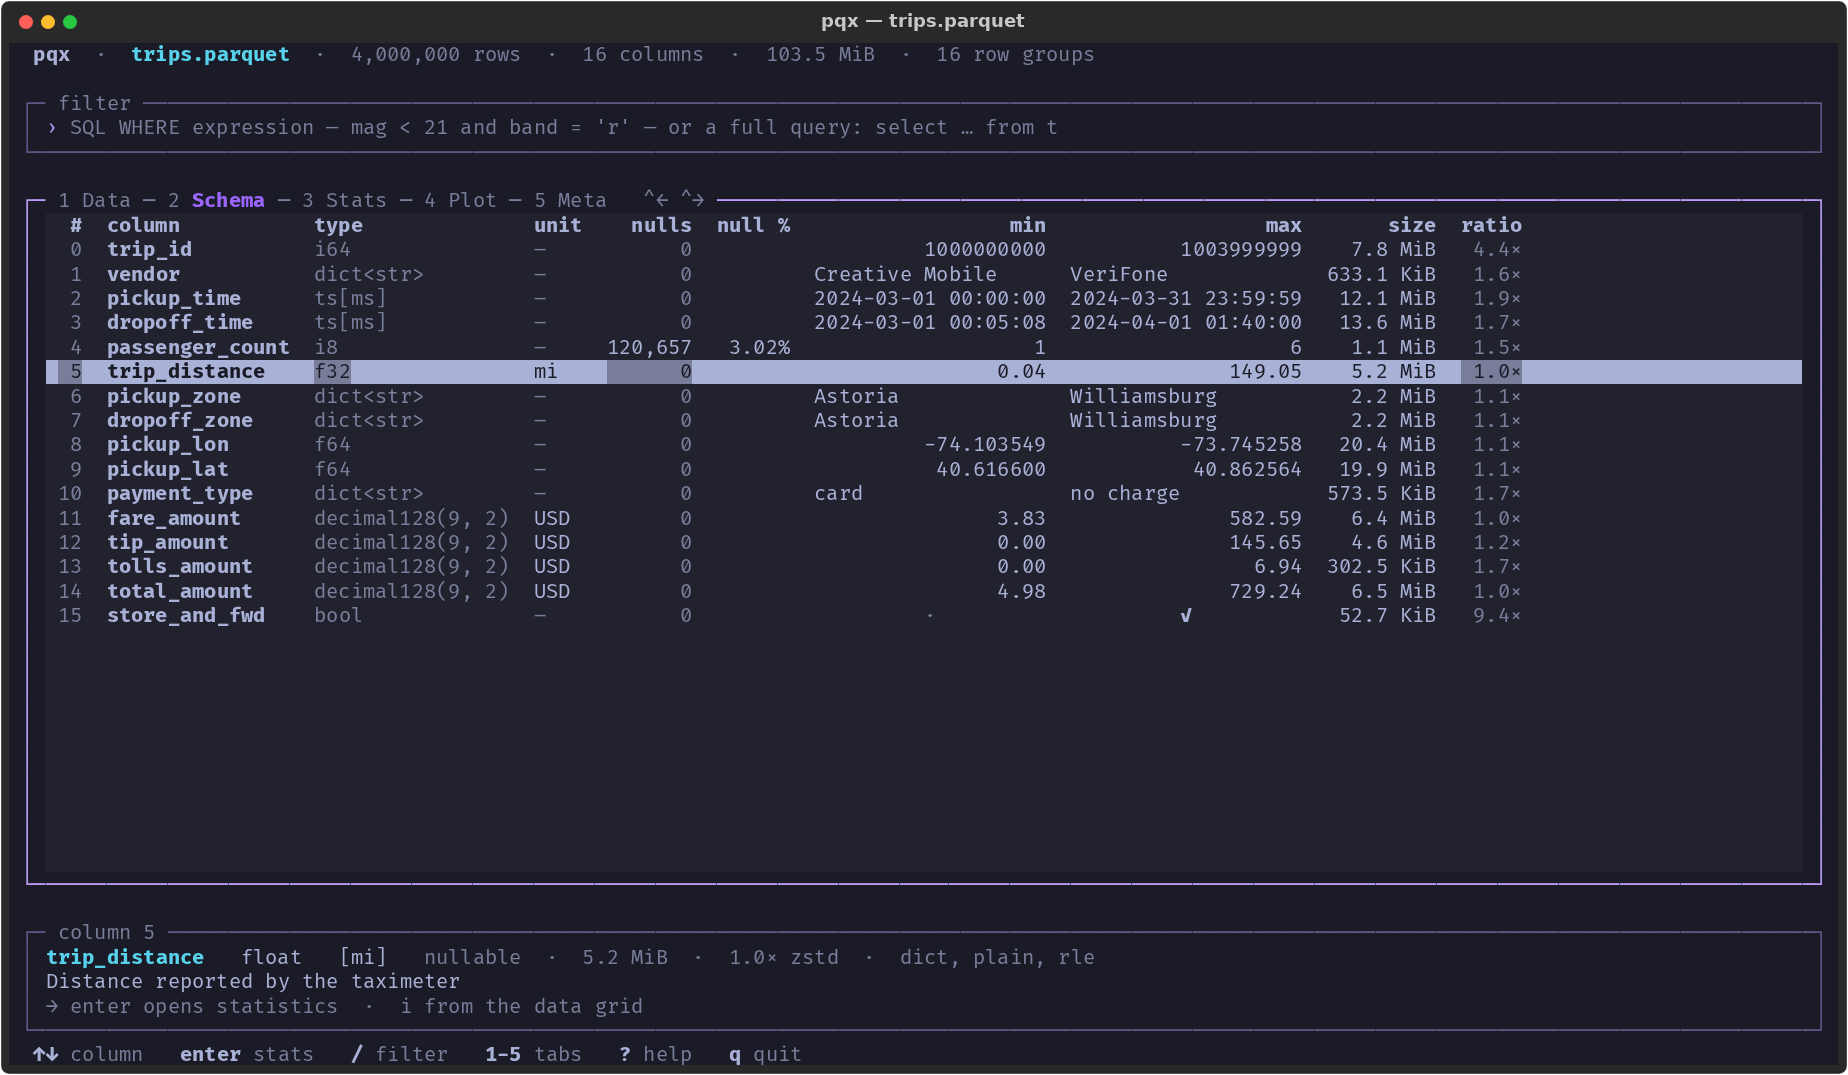
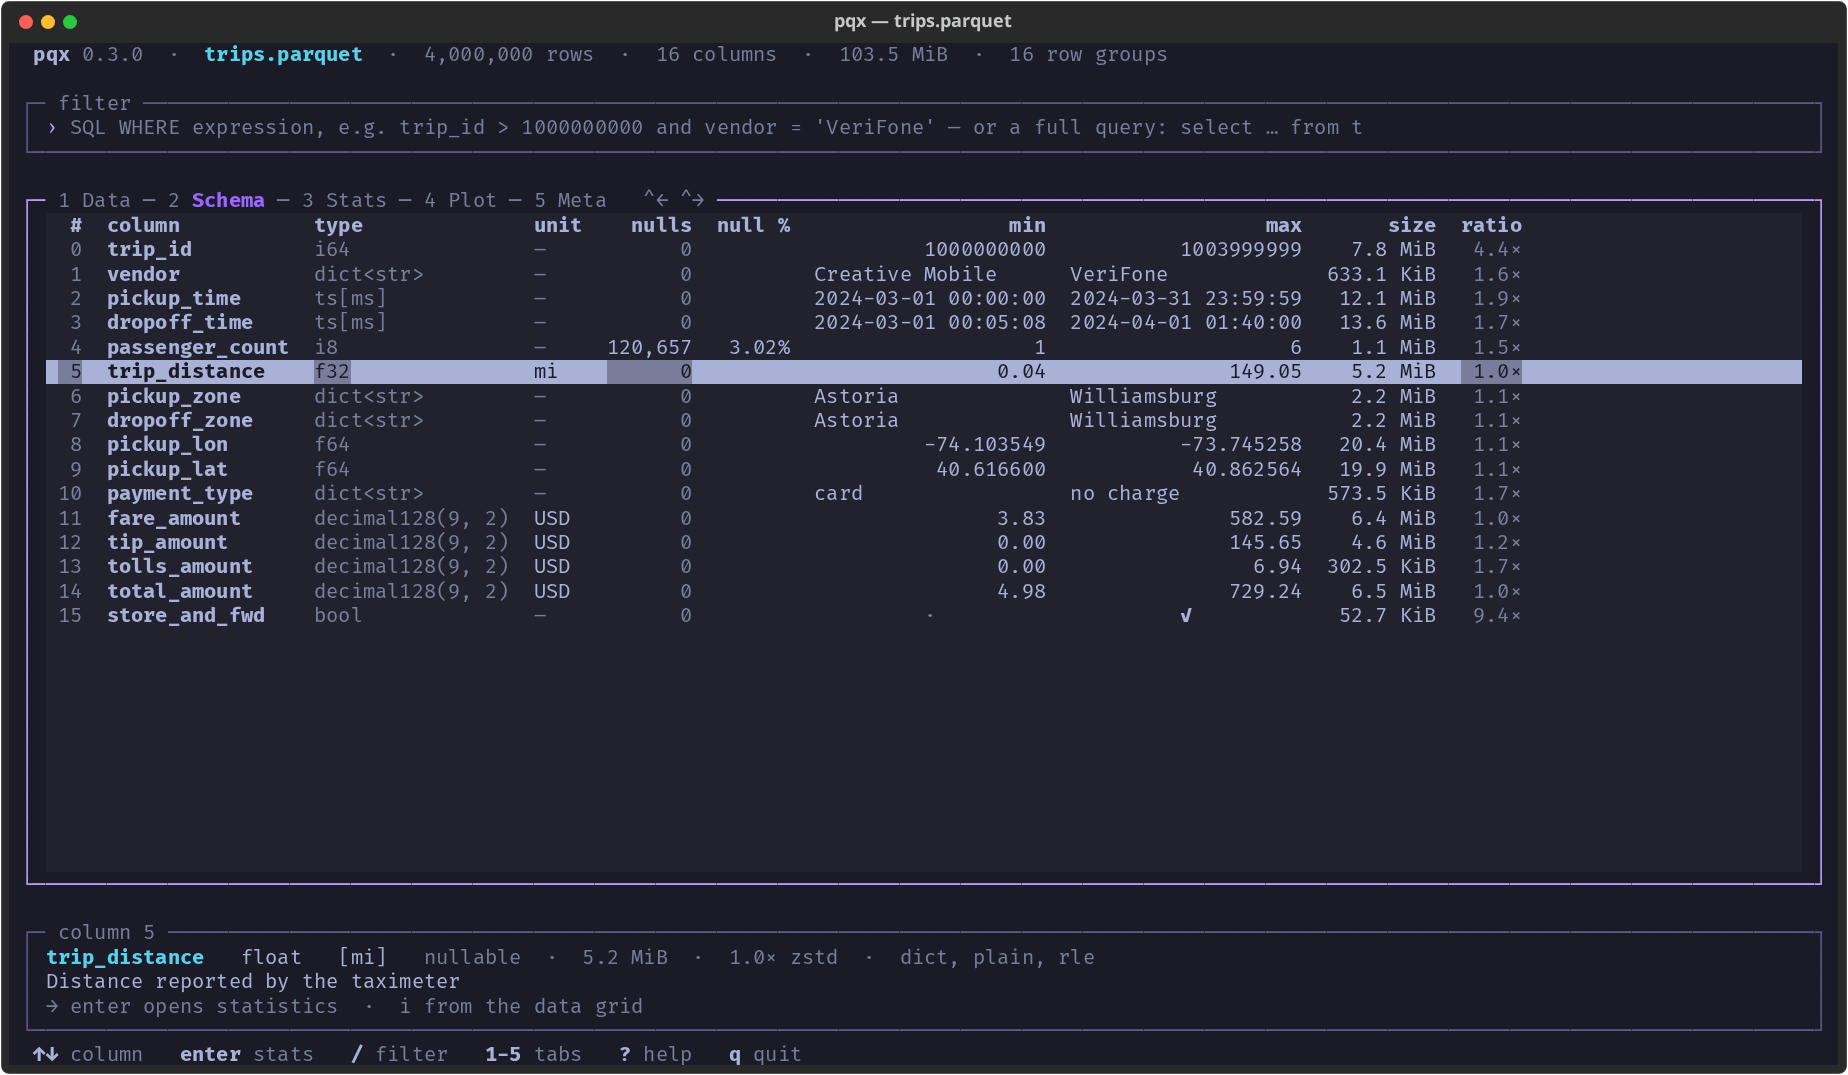
Screenshots from the Go binary
go/bench/screenshots/make_screenshots.py drives pqx in the pty driver at
150x42 with --theme tokyo-night and a truecolor terminal, turns the emulated
screen into Rich text and exports it with Rich's SVG export (as Textual's
screenshots are), then renders PNGs with headless Chromium. The seven PNGs
replace the Python ones; the Python screenshot script goes.

Claude-Session: https://claude.ai/code/session_015kF6kCxgy5Z3UGWUNb1E1y

diff --git a/go/bench/screenshots/make_screenshots.py b/go/bench/screenshots/make_screenshots.py
@@ -1,0 +1,232 @@
+# /// script
+# requires-python = ">=3.10"
+# dependencies = ["numpy", "pyarrow", "pyte", "rich"]
+# ///
+"""Regenerate the README screenshots (docs/screenshots/*.png) from the Go pqx.
+
+    uv run go/bench/screenshots/make_screenshots.py [--pqx BIN] [--chrome PATH] [--out DIR]
+
+Writes made-up data (4M taxi trips from tools/make_trips.py, and the synthetic LSST
+file from tools/make_demo.py for the sky map) to a temporary directory, runs pqx in
+a pty at 150x42 cells with ``--theme tokyo-night`` and a truecolor terminal
+(go/bench/pty/ptydrive.py, which emulates the screen with pyte), presses the keys of
+each scene, and turns the emulated screen, with its colours and attributes, into an
+SVG with Rich's terminal export: the same export, window frame and size as Textual's
+screenshots of Python pqx. Headless Chrome renders the SVG to PNG (``--chrome``,
+``$CHROME``, or a ``chromium``/``headless_shell``/Playwright install).
+
+Without ``--pqx`` it builds pqx with ``go build`` (Go and a C compiler needed),
+labelled with ``--label`` (default 0.3.0), the version the title bar shows.
+"""
+from __future__ import annotations
+
+import argparse
+import glob
+import os
+import re
+import shutil
+import subprocess
+import sys
+import tempfile
+import time
+
+from rich.console import Console
+from rich.style import Style
+from rich.text import Text
+
+HERE = os.path.dirname(os.path.abspath(__file__))
+GO_ROOT = os.path.dirname(os.path.dirname(HERE))
+REPO = os.path.dirname(GO_ROOT)
+sys.path.insert(0, os.path.join(GO_ROOT, "bench", "pty"))
+from ptydrive import Session  # noqa: E402
+
+COLS, ROWS = 150, 42
+THEME = "tokyo-night"
+FILTER = "payment_type = 'card' and trip_distance > 10"
+QUERY = "select pickup_zone, count(*) as trips, avg(tip_amount) as avg_tip from t group by 1 order by 2 desc"
+SCENES = ("hero", "detail", "sql", "schema", "stats", "plot", "sky")
+
+#: pyte's names for the 16 ANSI colours, as Rich names them
+ANSI = {"brown": "yellow", "brightbrown": "bright_yellow"}
+
+
+def rich_colour(c: str) -> str | None:
+    if c == "default":
+        return None
+    if re.fullmatch(r"[0-9a-fA-F]{6}", c):
+        return "#" + c
+    c = ANSI.get(c, c)
+    return c.replace("bright", "bright_") if c.startswith("bright") and "_" not in c else c
+
+
+def screen_text(s: Session) -> Text:
+    """The emulated screen as Rich text, cell by cell with each cell's style."""
+    out = Text()
+    buf = s.screen.buffer
+    for y in range(s.rows):
+        line = buf[y]
+        for x in range(s.cols):
+            c = line[x]
+            if c.data == "":  # the right half of a wide character
+                continue
+            out.append(c.data, Style(color=rich_colour(c.fg), bgcolor=rich_colour(c.bg), bold=c.bold,
+                                     dim=c.blink, reverse=c.reverse, underline=c.underscore,
+                                     italic=c.italics))
+        if y < s.rows - 1:
+            out.append("\n")
+    return out
+
+
+def to_svg(s: Session, title: str) -> str:
+    console = Console(width=s.cols, height=s.rows, file=open(os.devnull, "w"), force_terminal=True,
+                      color_system="truecolor", record=True, legacy_windows=False, safe_box=False)
+    console.print(screen_text(s), end="", crop=True, overflow="crop", no_wrap=True)
+    return console.export_svg(title=title)
+
+
+BLOCKS = set("█▀▄▌▐▖▗▘▙▚▛▜▝▞▟▁▂▃▅▆▇▉▊▋▍▎▏ ")
+
+
+def close_seams(svg: str) -> str:
+    """Stroke runs of block characters in their own colour: browsers leave hairline
+    gaps between adjacent glyph runs, which show as a grid over plots."""
+    fills = dict(re.findall(r"\.(terminal-\d+-r\d+) \{[^}]*?fill: (#[0-9a-fA-F]{6})", svg))
+
+    def fix(m):
+        cls, rest, txt = m.groups()
+        if txt and cls in fills and all(c in BLOCKS for c in txt.replace("&#160;", " ")):
+            return f'<text class="{cls}"{rest} style="stroke:{fills[cls]};stroke-width:1.5px">{txt}</text>'
+        return m.group(0)
+
+    return re.sub(r'<text class="(terminal-\d+-r\d+)"([^>]*)>([^<]*)</text>', fix, svg)
+
+
+def find_chrome(arg: str | None) -> str:
+    for c in (arg, os.environ.get("CHROME")):
+        if c:
+            return c
+    pattern = os.path.expanduser("~/.cache/ms-playwright/chromium_headless_shell-*/*/chrome-headless-shell")
+    found = sorted(glob.glob(pattern)) or [p for p in (shutil.which("chromium"), shutil.which("chromium-browser"),
+                                                       shutil.which("google-chrome"),
+                                                       "/usr/lib64/chromium-browser/headless_shell") if p and os.path.exists(p)]
+    if not found:
+        sys.exit("no headless Chrome found: pass --chrome or set $CHROME")
+    return found[-1]
+
+
+def to_png(chrome: str, svg: str, svg_path: str, png_path: str) -> None:
+    svg = close_seams(svg)
+    w, h = (int(float(v) + 0.99) for v in re.search(r'viewBox="0 0 ([\d.]+) ([\d.]+)"', svg).groups())
+    with open(svg_path, "w") as f:
+        f.write(svg)
+    subprocess.run([chrome, "--headless", "--no-sandbox", "--hide-scrollbars", f"--screenshot={png_path}",
+                    f"--window-size={w},{h}", "--virtual-time-budget=5000", f"file://{svg_path}"],
+                   check=True, capture_output=True)
+
+
+# ------------------------------------------------------------------ the scenes
+def done(s: Session, timeout: float = 60.0) -> None:
+    """Until no spinner is on screen and the screen has stopped changing."""
+    end = time.perf_counter() + timeout
+    while time.perf_counter() < end:
+        s.settle(quiet=0.8, timeout=max(1.0, end - time.perf_counter()))
+        if not re.search(r"[⠋⠙⠹⠸⠼⠴⠦⠧⠇⠏]", s.text()):
+            return
+    sys.exit(f"pqx didn't settle:\n{s.text()}")
+
+
+def step_to(s: Session, rx: str, n: int = 20) -> None:
+    """Press → on the focused plot setting until its line matches `rx`."""
+    for _ in range(n):
+        if re.search(rx, s.text()):
+            return
+        s.keys("right")
+        done(s)
+    sys.exit(f"no {rx!r} on screen:\n{s.text()}")
+
+
+def shoot(pqx: str, path: str, name: str) -> Session:
+    env = dict(os.environ, COLORTERM="truecolor")
+    s = Session([pqx, "--theme", THEME, path], cols=COLS, rows=ROWS, env=env)
+    if not s.wait(r"rows", timeout=60):
+        sys.exit(f"pqx didn't start:\n{s.text()}")
+    done(s)
+    if name == "hero":
+        s.keys("/")
+        s.type(FILTER, gap=0.01)
+        s.keys("enter")
+        done(s)
+        s.keys("down", "down", "down")
+    elif name == "detail":
+        s.keys("down", "down", "down", "down", "d")
+    elif name == "sql":
+        s.keys("/")
+        s.type(QUERY, gap=0.01)
+        s.keys("enter")
+    elif name == "schema":
+        s.keys("2")
+        done(s)
+        s.keys(*["down"] * 5)
+    elif name == "stats":
+        s.keys(*["right"] * 5)  # trip_distance
+        done(s)
+        s.keys("3")
+        done(s)
+        s.keys("L")  # log values
+    elif name == "plot":
+        s.keys("4")
+        done(s)
+        step_to(s, r"mode xy ")
+        s.keys("tab")
+        step_to(s, r"x pickup_lon ")
+        s.keys("tab")
+        step_to(s, r"y pickup_lat ")
+        s.keys("shift+tab", "shift+tab")  # focus back on mode, as Python's screenshot has it
+    elif name == "sky":
+        s.keys("4")
+    done(s)
+    return s
+
+
+def build(label: str, out: str) -> str:
+    binary = os.path.join(out, "pqx")
+    subprocess.run(["go", "build", "-tags", "duckdb_arrow", "-ldflags", f"-X main.version={label}",
+                    "-o", binary, "./cmd/pqx"], cwd=GO_ROOT, check=True)
+    return binary
+
+
+def main() -> None:
+    ap = argparse.ArgumentParser(description=__doc__, formatter_class=argparse.RawDescriptionHelpFormatter)
+    ap.add_argument("--pqx", help="the pqx binary (default: build one)")
+    ap.add_argument("--label", default="0.3.0", help="version to build into pqx (default %(default)s)")
+    ap.add_argument("--chrome", help="headless Chrome or Chromium")
+    ap.add_argument("--out", default=os.path.join(REPO, "docs", "screenshots"), help="where the PNGs go")
+    ap.add_argument("--svg", action="store_true", help="keep the SVGs next to the PNGs")
+    ap.add_argument("--data", help="keep the generated Parquet files in this directory, and reuse them")
+    ap.add_argument("scenes", nargs="*", metavar="SCENE", help=f"which screenshots ({', '.join(SCENES)}; default all)")
+    a = ap.parse_args()
+    if bad := set(a.scenes) - set(SCENES):
+        ap.error(f"unknown scenes: {', '.join(sorted(bad))}")
+    chrome = find_chrome(a.chrome)
+    with tempfile.TemporaryDirectory() as tmp:
+        pqx = a.pqx or build(a.label, tmp)
+        data = a.data or tmp
+        os.makedirs(data, exist_ok=True)
+        trips, sso = os.path.join(data, "trips.parquet"), os.path.join(data, "sso.parquet")
+        tools = os.path.join(REPO, "tools")
+        if not os.path.exists(trips):
+            subprocess.run([sys.executable, os.path.join(tools, "make_trips.py"), trips, "4000000"], check=True)
+        if not os.path.exists(sso):
+            subprocess.run([sys.executable, os.path.join(tools, "make_demo.py"), sso, "--rows", "1000000"],
+                           check=True)
+        for name in a.scenes or SCENES:
+            path = sso if name == "sky" else trips
+            with shoot(pqx, path, name) as s:
+                svg = to_svg(s, f"pqx — {os.path.basename(path)}")
+            svg_path = os.path.join(a.out if a.svg else tmp, f"{name}.svg")
+            to_png(chrome, svg, svg_path, os.path.join(a.out, f"{name}.png"))
+            print(f"{name}.png", file=sys.stderr)
+
+
+if __name__ == "__main__":
+    main()
